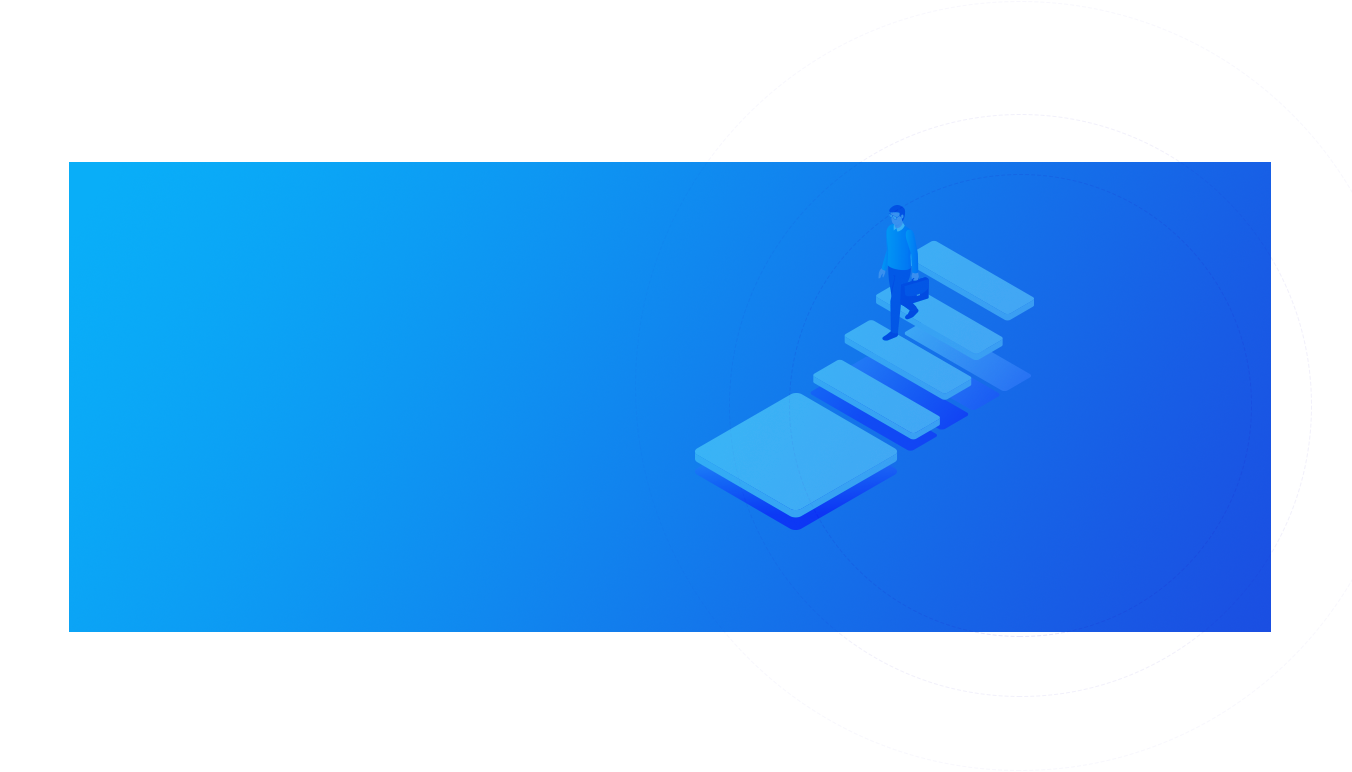
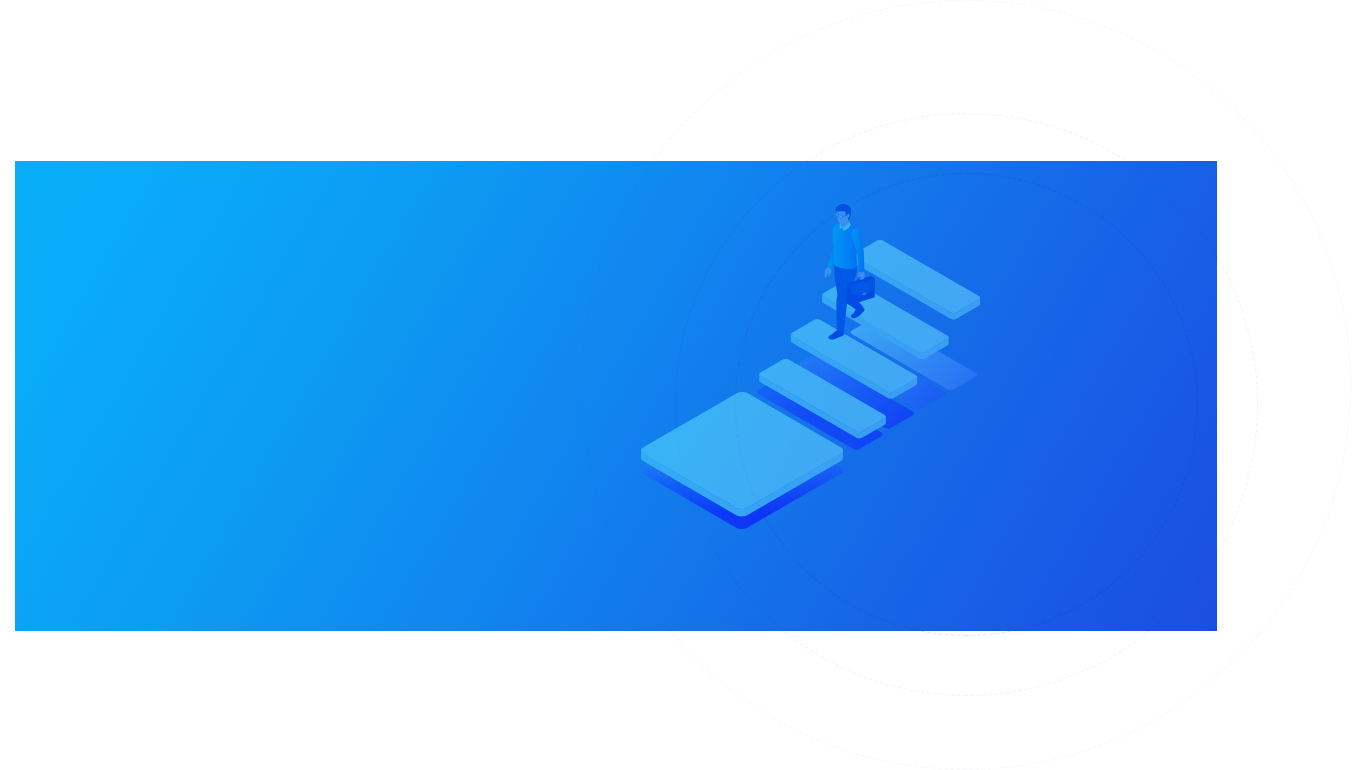
1

Changed region(s): [[0.466, 0.2494, 0.7766, 0.6857], [0.0, 0.187, 0.0621, 0.8416], [0.9009, 0.187, 0.963, 0.8416]]

diff --git a/src/app/board.component.less b/src/app/board.component.less
@@ -126,14 +126,13 @@
   .content {
     padding-top: 74px;
     width: 1352px;
+    height: 860px;
     margin: auto;
-    background: url("http://img.zcdsp.com/common/14196ae3a43d9a74317e3b9d332c3092.png") no-repeat;
-    background-position-y: 80px;
-    padding-bottom: 5.4%;
+    background: url("http://img.zcdsp.com/common/a3e7a5c06266f3c887165e89fddb7fa3.png") 52px 80px no-repeat;
     position: relative;
     .tips {
       position: absolute;
-      bottom: 18px;
+      bottom: 106px;
       left: 176px;
       width: 256px;
       height: 62px;
@@ -228,18 +227,18 @@
         }
       }
       .right{
-        width: 335px;
-        height: 643px;
+        width: 356px;
+        height: 650px;
         background: url("../assets/img/index/anlibg.png") no-repeat;
         background-size: 100%;
         position: absolute;
         right: 66px;
-        top:0;
-        padding-left: 53px;
-        padding-top:70px;
+        top:10px;
+        padding-left: 57px;
+        padding-top:82px;
         .imgbox{
-          width: 250px;
-          height: 450px;
+          width: 266px;
+          height: 472px;
           overflow: hidden;
           position: relative;
           .list{
@@ -248,8 +247,8 @@
           }
           img{
             display: block;
-            width: 250px;
-            height: 450px;
+            width: 266px;
+            height: 472px;
           }
         }
       }

diff --git a/src/app/board.component.ts b/src/app/board.component.ts
@@ -75,7 +75,7 @@ export class BoardComponent implements OnInit,OnDestroy {
     })
   }
 
-  scrolls() {
+  /*scrolls() {
     this.setIntervalNum = setInterval(() => {
       if(this.destroy) return;
       this.currentPic++
@@ -89,7 +89,7 @@ export class BoardComponent implements OnInit,OnDestroy {
         'left.px': -this.currentPic * 1352
       }
     }, 3000)
-  }
+  }*/
 
   scrolls1() {
     this.setInterval1 = setInterval(() => {
@@ -99,7 +99,7 @@ export class BoardComponent implements OnInit,OnDestroy {
         this.currentPic = 0
       }
       this.height = {
-        'top.px': -this.currentPic * 450
+        'top.px': -this.currentPic * 430
       }
     }, 3000)
   }
@@ -144,7 +144,7 @@ export class BoardComponent implements OnInit,OnDestroy {
       this.flags = !this.flags
     }
   }
-  
+
   ngOnDestroy(){
     this.destroy = true;
     clearInterval(this.setInterval1)
